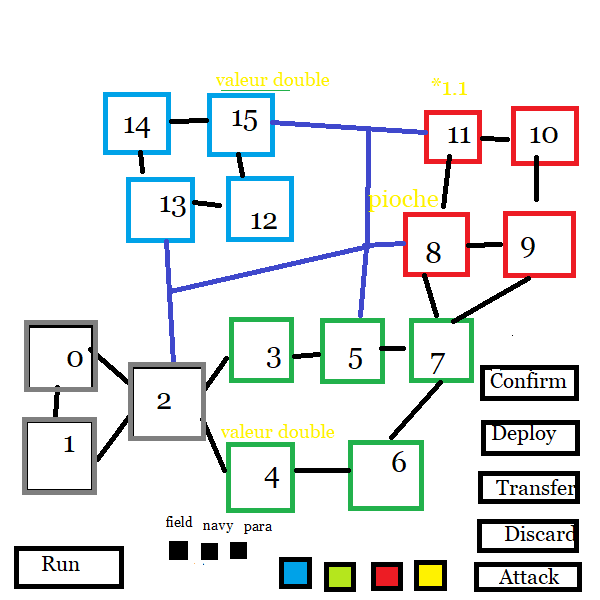
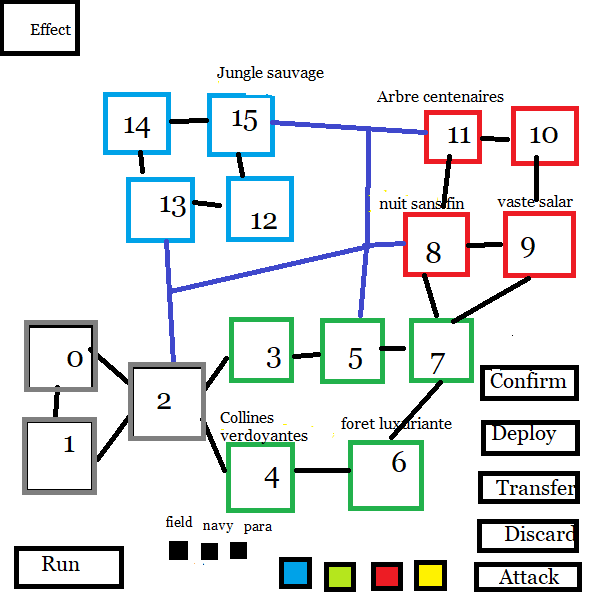
Added possibility to view territory description + improve cleverbot

diff --git a/bot.py b/bot.py
@@ -36,9 +36,102 @@ class Bot:
 
             randomterrAttack = rd.choice(terr).id
             randomterrDef = rd.choice(self.cm.tm.territories).id
+            if(rd.random()<0.20):
+                randomterrDed = 11
             act.append(Action("Attack",t0 = randomterrAttack,t1 = randomterrDef))
         return(act)
         
+
+class CleverBot(Bot):
+
+    def __init__(self,p:Player,cm:CoreManager):
+        super().__init__(p,cm)
+
+    def GetAction(self):
+        # First we get deployment
+        act = []
+        terr = self.cm.GetTerritory(self.player.id)
+        money = self.player.money
+        price = {"field": 1000,"navy":1200,"para":1500}
+        troopToDeploy = {"field": 0,"navy":0,"para":0}
+        if(terr):
+            randomterr = rd.choice(terr).id
+            troopToDeploy["t0"] = randomterr
+            while(money > 1500):
+                ##troop,value = rd.choice(list(price.items()))
+                i = rd.randint(0,10)
+                if(i <= 6):
+                    troop,value = "field",1000
+                elif(i<=9):
+                    troop,value = "navy", 1200
+                else:
+                    troop,value = "para",1500
+
+                troopToDeploy[troop] += 1
+                money-= value
+
+            act.append(Action("Deploy",**troopToDeploy))
+
+            # Here we improve the way the territroy to attack is choosen
+            """choices = []
+            for t in terr:
+                choices.append(t)
+                if(t.CountTroop()> 6):
+                    choices.append(t)
+                    choices.append(t)
+                    choices.append(t)
+                    choices.append(t)
+            randomterrAttack = rd.choice(choices).id"""
+            randomterrAttack = self.SmartAttackFromChoice()
+            randomterrDef = self.SmartAttackToChoice(randomterrAttack)
+
+            """choices = []
+            for t in self.cm.tm.territories:
+                choices.append(t)
+                if(self.cm.tm.adjacent[t.id,randomterrAttack] == 2):
+                    choices.append(t)
+                    choices.append(t)
+                    choices.append(t)
+                    choices.append(t)
+
+                if(t.id == 11):
+                    choices.append(t)
+                    choices.append(t)
+                
+            randomterrDef = rd.choice(choices).id"""
+            act.append(Action("Attack",t0 = randomterrAttack,t1 = randomterrDef))
+        return(act)
+    
+    def DumbAttackFromChoice(self):
+        terr = self.cm.GetTerritory(self.player.id)
+        randomterr = rd.choice(terr).id
+        return(randomterr)
+
+    def SmartAttackFromChoice(self):
+        terr = self.cm.GetTerritory(self.player.id)
+        weights = []
+        for t in terr:
+            weight = t.CountTroop()
+            weights.append(weight)
+
+        randomterr = rd.choices(terr,weights = weights)[0].id
+        return(randomterr)
+    
+    def DumbAttackToChoice(self,fr):
+        randomterr = rd.choice(self.cm.tm.territories).id
+        return(randomterr)
+
+    def SmartAttackToChoice(self,fr):
+        weights = []
+        for t in self.cm.tm.territories:
+            if(self.cm.tm.adjacent[t.id,fr] == 2 and t.owner_id != self.player.id):
+                weight = 5
+            else:
+                weight = 1
+            weights.append(weight)
+        randomterr = rd.choices(self.cm.tm.territories,weights = weights)[0].id
+        return(randomterr)
+
         
                 
 

diff --git a/territory.py b/territory.py
@@ -15,7 +15,11 @@ class Territory:
         self.troop = {"field":0,"navy":0,"para":0,"animals":0}
         self.value = kwargs.get("value") or 500
         self.hasbeentaken = False
+        self.hasAttacked = False
+        self.effect = "This territory has no effect"
 
+    def ShowEffect(self):
+        print(self.effect)
 
     
     def DrawCards(self,nb):
@@ -120,24 +124,66 @@ class Territory:
         self.troop = {"field":0,"navy":0,"para":0,"animals":3}
 
 class TerritoryMultiple(Territory):
-        def __init__(self,**kwargs):
-            super().__init__(**kwargs)
+    def __init__(self,**kwargs):
+        super().__init__(**kwargs)
+        self.effect ="Reward is multiplied by 1.05 each turn. Reset when owner changes"
+      
+    def SetOwner(self,p:Player):
+        super().SetOwner(p)
+        self.value = 500
 
-        def SetOwner(self,p:Player):
-            super().SetOwner(p)
-            self.value = 500
-
-        def EndTurn(self):
-            self.value = int(self.value*1.1)
-            super().EndTurn()
+    def EndTurn(self):
+        self.value = int(self.value*1.05)
+        super().EndTurn()
 
 class TerritoryCard(Territory):
+    def __init__(self,**kwargs):
+        super().__init__(**kwargs)
+        self.effect ="Discard the worst card of the owner and draw another card each turn"
+
+    def EndTurn(self):
+        super().EndTurn()
+        self.owner.DiscardCard()
+        
+class TerritoryGorilla(Territory):
+
         def __init__(self,**kwargs):
             super().__init__(**kwargs)
-
+            self.effect ="If no attack from this territory, 20percent of adding a bonus troop at the end of the turn"
+        
         def EndTurn(self):
+            print("Bonus troop on gorilla territory")
+            if(not self.hasAttacked and rd.random()< 0.2 and self.owner !=-1):
+                self.Deploy(field = 1)
             super().EndTurn()
-            self.owner.DiscardCard()
-        
 
+class TerritoryAlpaga(Territory):
+
+    def __init__(self,**kwargs):
+        super().__init__(**kwargs)
+        self.effect ="No uprise of animals on this territory"
         
+    def EndTurn(self):
+        return
+        
+class TerritoryCoati(Territory):
+
+    def __init__(self,**kwargs):
+        super().__init__(**kwargs)
+        self.effect ="Uprise can happens if troop are less or equal to 4"
+        
+    def EndTurn(self):
+        self.hasbeentaken = False
+        if(self.owner_id != -1 and self.CountTroop() <= 4):
+            if(rd.random() < 0.15):
+                self.Uprise()
+        elif(self.owner_id == -1):
+            self.Regenerate()
+        return
+
+class TerritoryYack(Territory):
+
+    def __init__(self,**kwargs):
+        super().__init__(**kwargs)
+        self.value = 1000
+        self.effect ="Reward is twice the normal price"

diff --git a/coremanager.py b/coremanager.py
@@ -1,6 +1,6 @@
 from attackmanager import AttackManager
 from territorymanager import TerritoryManager
-from territory import Territory,TerritoryMultiple,TerritoryCard
+from territory import (Territory,TerritoryMultiple,TerritoryCard,TerritoryGorilla,TerritoryAlpaga,TerritoryCoati,TerritoryYack)
 from player import Player,Animal
 import numpy as np
 import random as rd
@@ -30,7 +30,7 @@ class CoreManager:
         owner.AddMoney(-price["para"]*para)
 
     def Deploy(self,**kwargs):
-        territory = kwargs.get("t0") or None
+        territory = kwargs.get("t0")
         field = kwargs.get("field") or 0
         navy = kwargs.get("navy") or 0
         para = kwargs.get("para") or 0
@@ -135,9 +135,17 @@ class CoreManager:
         animals = Animal()
         for i in range(16):
             if(i== 11):
-                terr = TerritoryMultiple(**{"name": "Moutain "+str(i),"id": i,"animals":animals})
+                terr = TerritoryMultiple(**{"name": "Territoire des arbres centenaires "+str(i),"id": i,"animals":animals})
             elif(i==8):
-                terr = TerritoryCard(**{"name": "Volcano "+str(i),"id": i,"animals":animals})
+                terr = TerritoryCard(**{"name": "Territoire de la nuit sans fin "+str(i),"id": i,"animals":animals})
+            elif(i==15):
+                terr = TerritoryGorilla(**{"name": "Territoire de la jungle sauvage "+str(i),"id": i,"animals":animals})
+            elif(i==9):
+                terr = TerritoryAlpaga(**{"name": "Territoire du vaste Salar "+str(i),"id": i,"animals":animals})
+            elif(i==6):
+                terr = TerritoryCoati(**{"name": "Territoire du vaste Salar "+str(i),"id": i,"animals":animals})
+            elif(i==4):
+                terr = TerritoryYack(**{"name": "Territoire des collines verdiyante "+str(i),"id": i,"animals":animals})
             else:
                 terr = Territory(**{"name": "Jungle "+str(i),"id": i,"animals":animals})
             """terr.owner_id = rd.randint(0,2)
@@ -147,10 +155,6 @@ class CoreManager:
             field = rd.randint(1,5)
             terr.troop["field"] = field"""
             t.append(terr)
-        t[4].value = 1000
-        t[4].name = "Desert 4"
-        t[15].value = 1000
-        t[15].name = "Desert 15"
         owners = [0,0,0,0,1,1,1,1,2,2,2,2,3,3,3,3]
         rd.shuffle(owners)
         for i in range(16):

diff --git a/view/playerview.py b/view/playerview.py
@@ -31,6 +31,7 @@ def main():
     colorToAct[(0,255,0)] = "Player2"
     colorToAct[(0,0,255)] = "Player3"
     colorToAct[(0,255,255)] = "Player4"
+    colorToAct[(100,0,0)] = "Effect"
     actHandler = ActionHandler()
     am = ActionManager()
     am.print()
@@ -45,7 +46,7 @@ def main():
 	help="path to the input image")
     args = vars(ap.parse_args())
     image = cv2.imread(args["image"])
-
+    effect = False
 
     while running:  
         color = (255, 0, 0)
@@ -71,6 +72,12 @@ def main():
                     if(command == "Run"):
                         am.Run()
                         am.print()
+                    elif(command == "Effect"):
+                        effect = True
+                    elif(isinstance(command,int) and effect):
+                        effect = False
+                        am.cm.tm.territories[command].ShowEffect()
+
                     else:
                         act = actHandler.Add(command)
                 if(act):

diff --git a/actionmanager.py b/actionmanager.py
@@ -1,5 +1,5 @@
 from coremanager import CoreManager
-from bot import Bot
+from bot import Bot, CleverBot
 from action import Action
 from player import Player
 class ActionManager:
@@ -10,8 +10,11 @@ class ActionManager:
         self.players.append(Player(**{"name":"SuperBot","id":1,"color":(0,255,0)}))
         self.players.append(Player(**{"name":"ArnaudBot","id":2,"color":(255,0,0)}))
         self.players.append(Player(**{"name":"Aurélien","id":3,"color":(255,255,0)}))
-        for i in range(3):
+        for i in range(2):
             self.bots.append(Bot(self.players[i],None))
+        self.bots.append(CleverBot(self.players[2],None))
+        
+
         kwargs = {"players":self.players}
         self.cm = CoreManager(**kwargs)
         for bot in self.bots:

diff --git a/attackmanager.py b/attackmanager.py
@@ -58,7 +58,7 @@ class AttackManager:
             if(DEBUG):
                 attacker.print()
                 defender.print()
-
+            attacker.hasAttacked = True
             kwargs["attackcompo"] = attacker.GetCompo(way,True)
             kwargs["defensecompo"] = defender.GetCompo(way,False)
             kwargs = self.Wave(**kwargs)
